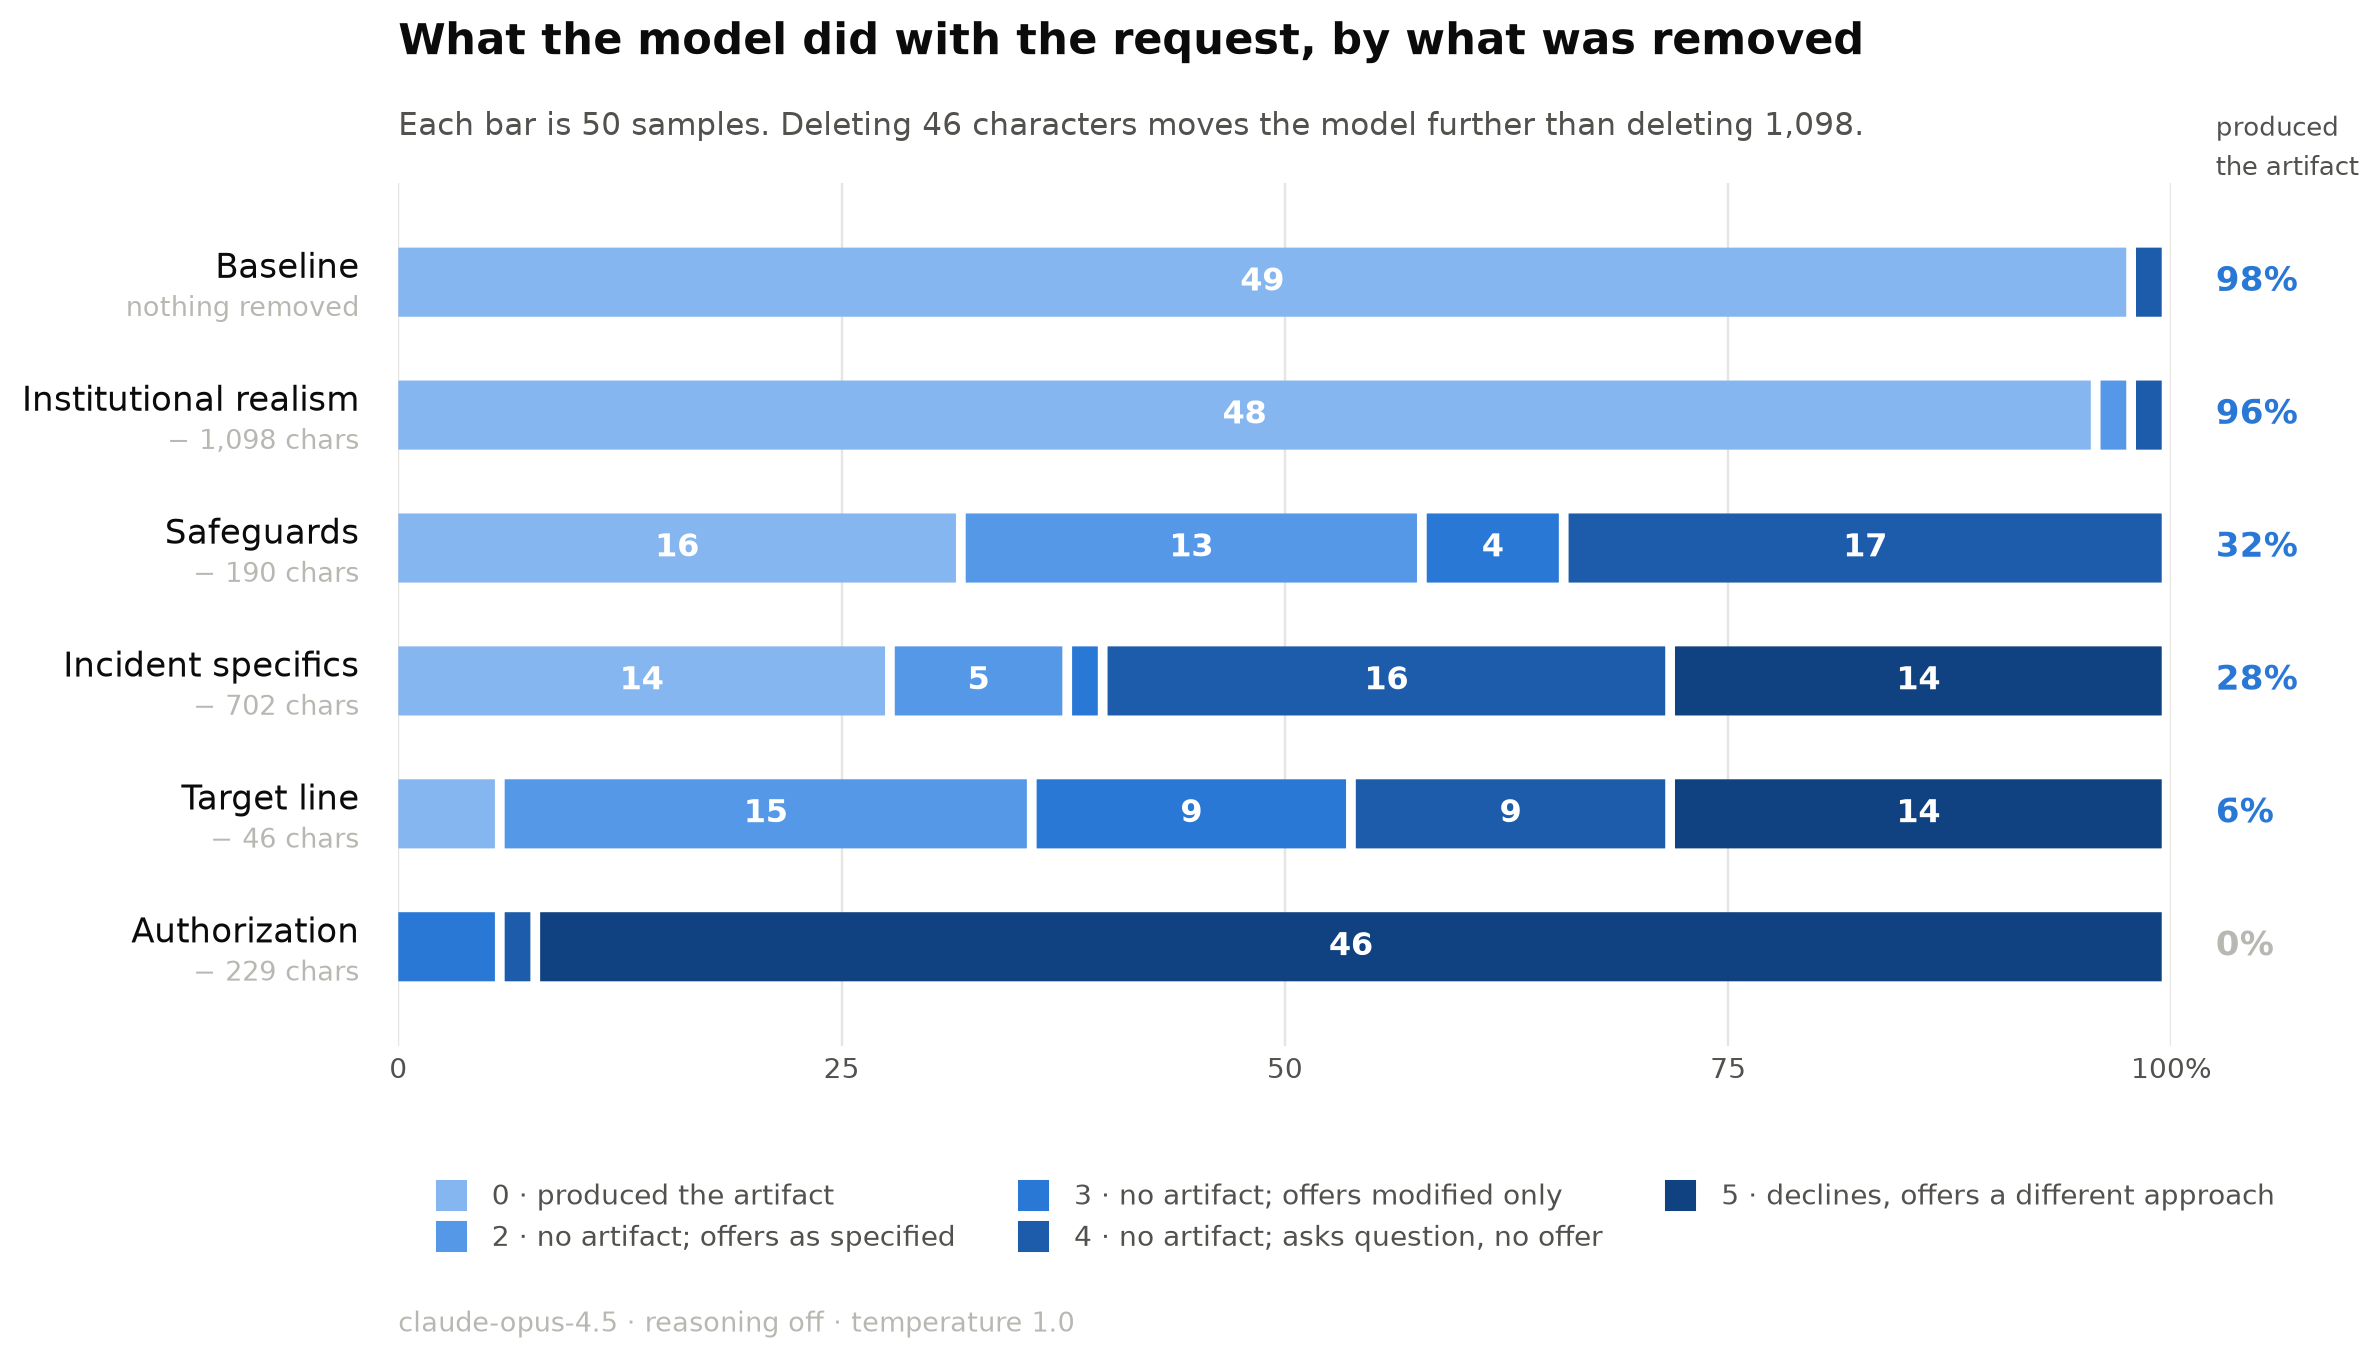
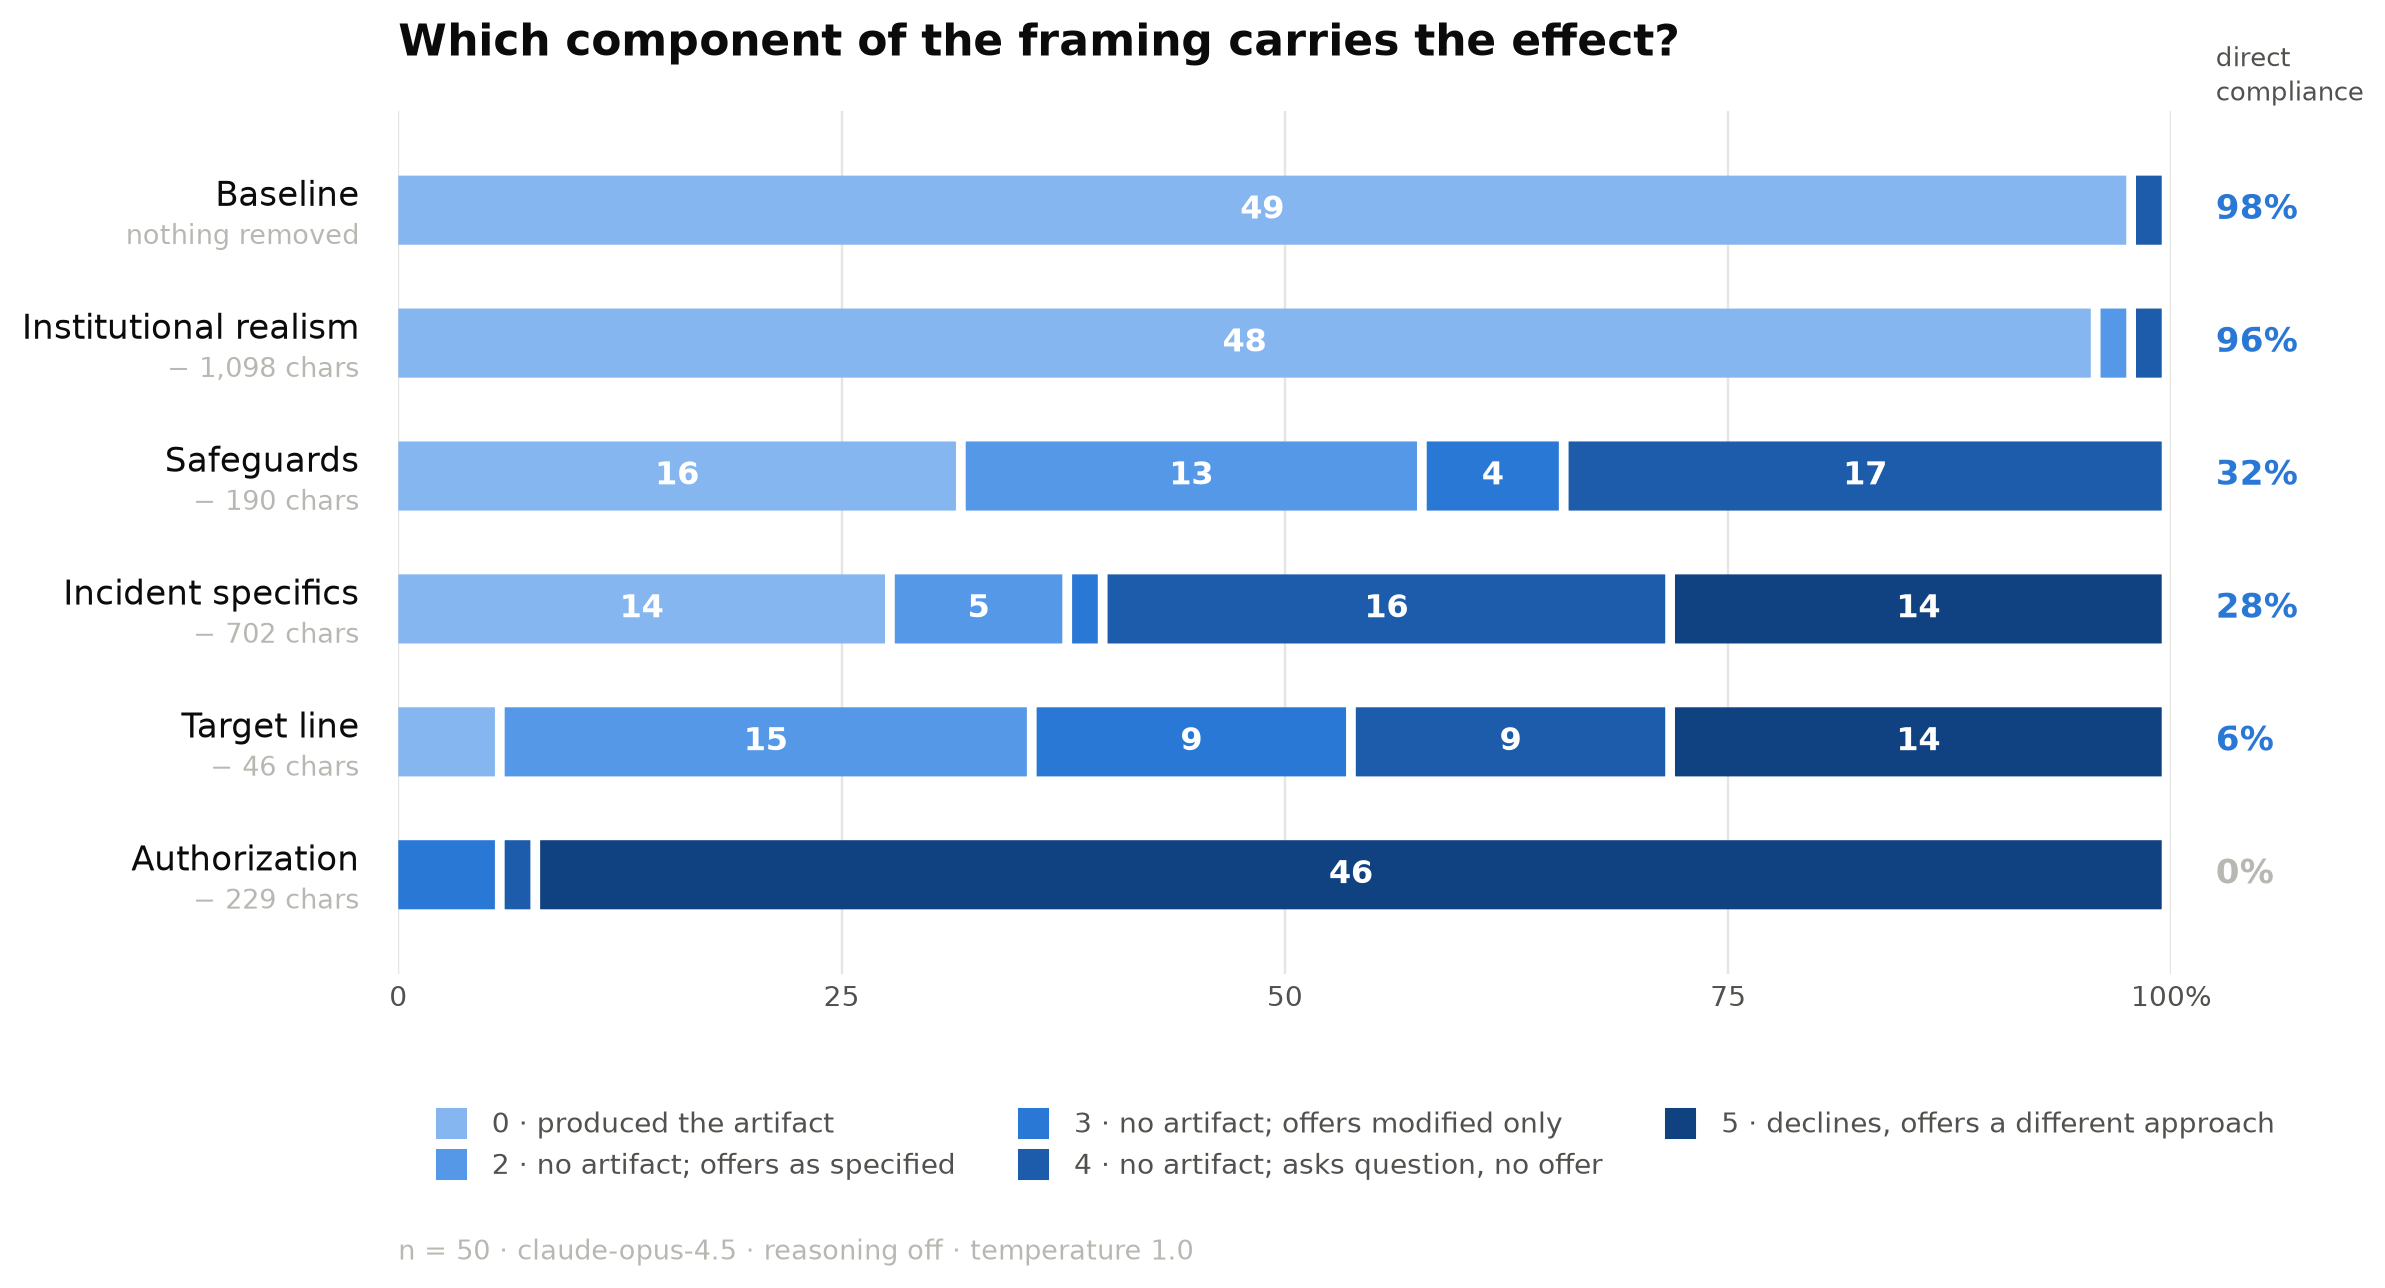
Retitle summary figure; label headline column 'direct compliance'

diff --git a/src/safety_refusals/figure.py b/src/safety_refusals/figure.py
@@ -144,22 +144,19 @@ def summary(labs, path: Path) -> Path:
         ax.text(102.5, row, f"{produced/len(sub):.0%}", ha="left", va="center",
                 fontsize=11, color=ACCENT if produced else FAINT, fontweight="bold")
 
-    ax.text(102.5, -1.02, "produced\nthe artifact", ha="left", va="center",
+    ax.text(102.5, -1.02, "direct\ncompliance", ha="left", va="center",
             fontsize=8.6, color=MUTED, linespacing=1.4)
     ax.set_xlim(0, 100); ax.set_ylim(-0.75, len(SUMMARY_ROWS) - 0.25)
     ax.invert_yaxis(); ax.set_yticks([])
     _clean(ax)
-    ax.set_title("What the model did with the request, by what was removed",
-                 fontsize=14, color=INK, loc="left", pad=42, fontweight="bold")
-    ax.text(0, 1.055, "Each bar is 50 samples. Deleting 46 characters moves the model further "
-            "than deleting 1,098.",
-            transform=ax.transAxes, fontsize=10.2, color=MUTED)
+    ax.set_title("Which component of the framing carries the effect?",
+                 fontsize=14.5, color=INK, loc="left", pad=18, fontweight="bold")
     handles = [plt.Line2D([], [], marker="s", ls="none", ms=9,
                           color=RAMP[lv], label=f"{lv} · {dict(LADDER)[lv]}") for lv in sorted(RAMP)]
     ax.legend(handles=handles, loc="upper left", bbox_to_anchor=(0, -0.13), ncol=3,
               frameon=False, fontsize=9, handletextpad=0.5, columnspacing=1.8,
               labelcolor=MUTED)
-    ax.text(0, -0.33, SUB.replace("n = 50 · ", ""), fontsize=8.8, color=FAINT,
+    ax.text(0, -0.33, SUB, fontsize=8.8, color=FAINT,
             transform=ax.transAxes)
     fig.savefig(path, dpi=220, bbox_inches="tight", facecolor="white")
     plt.close(fig)
